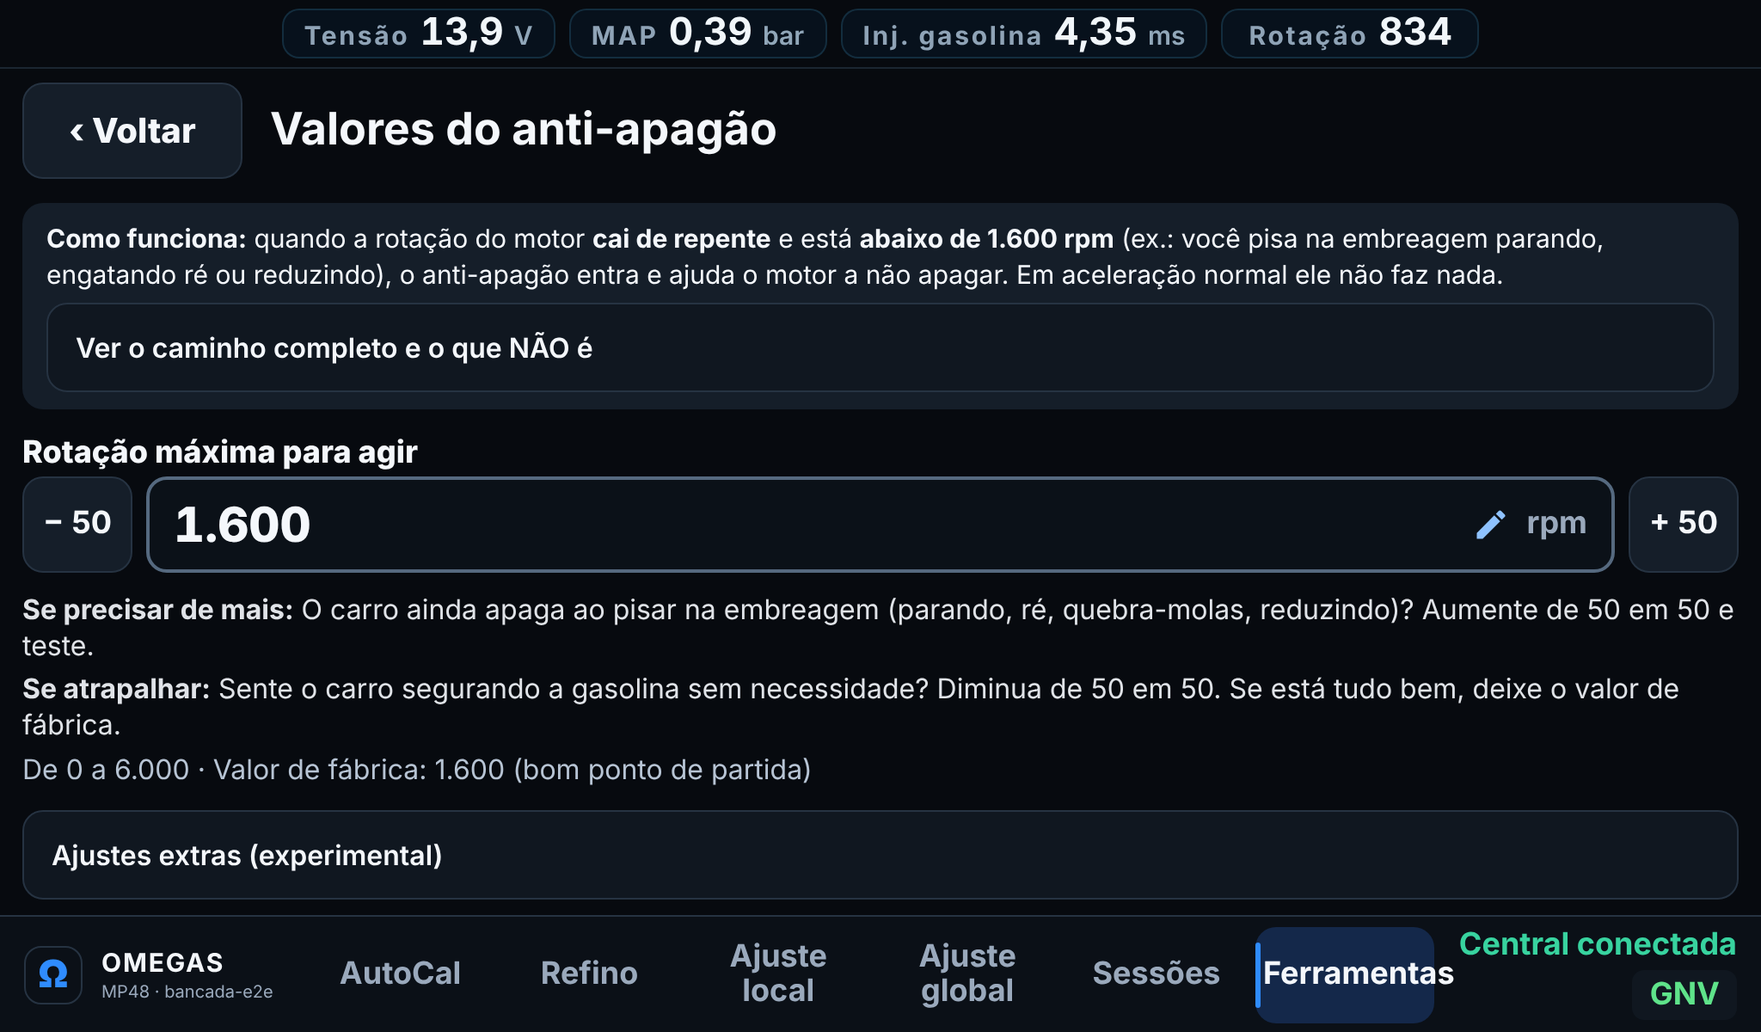
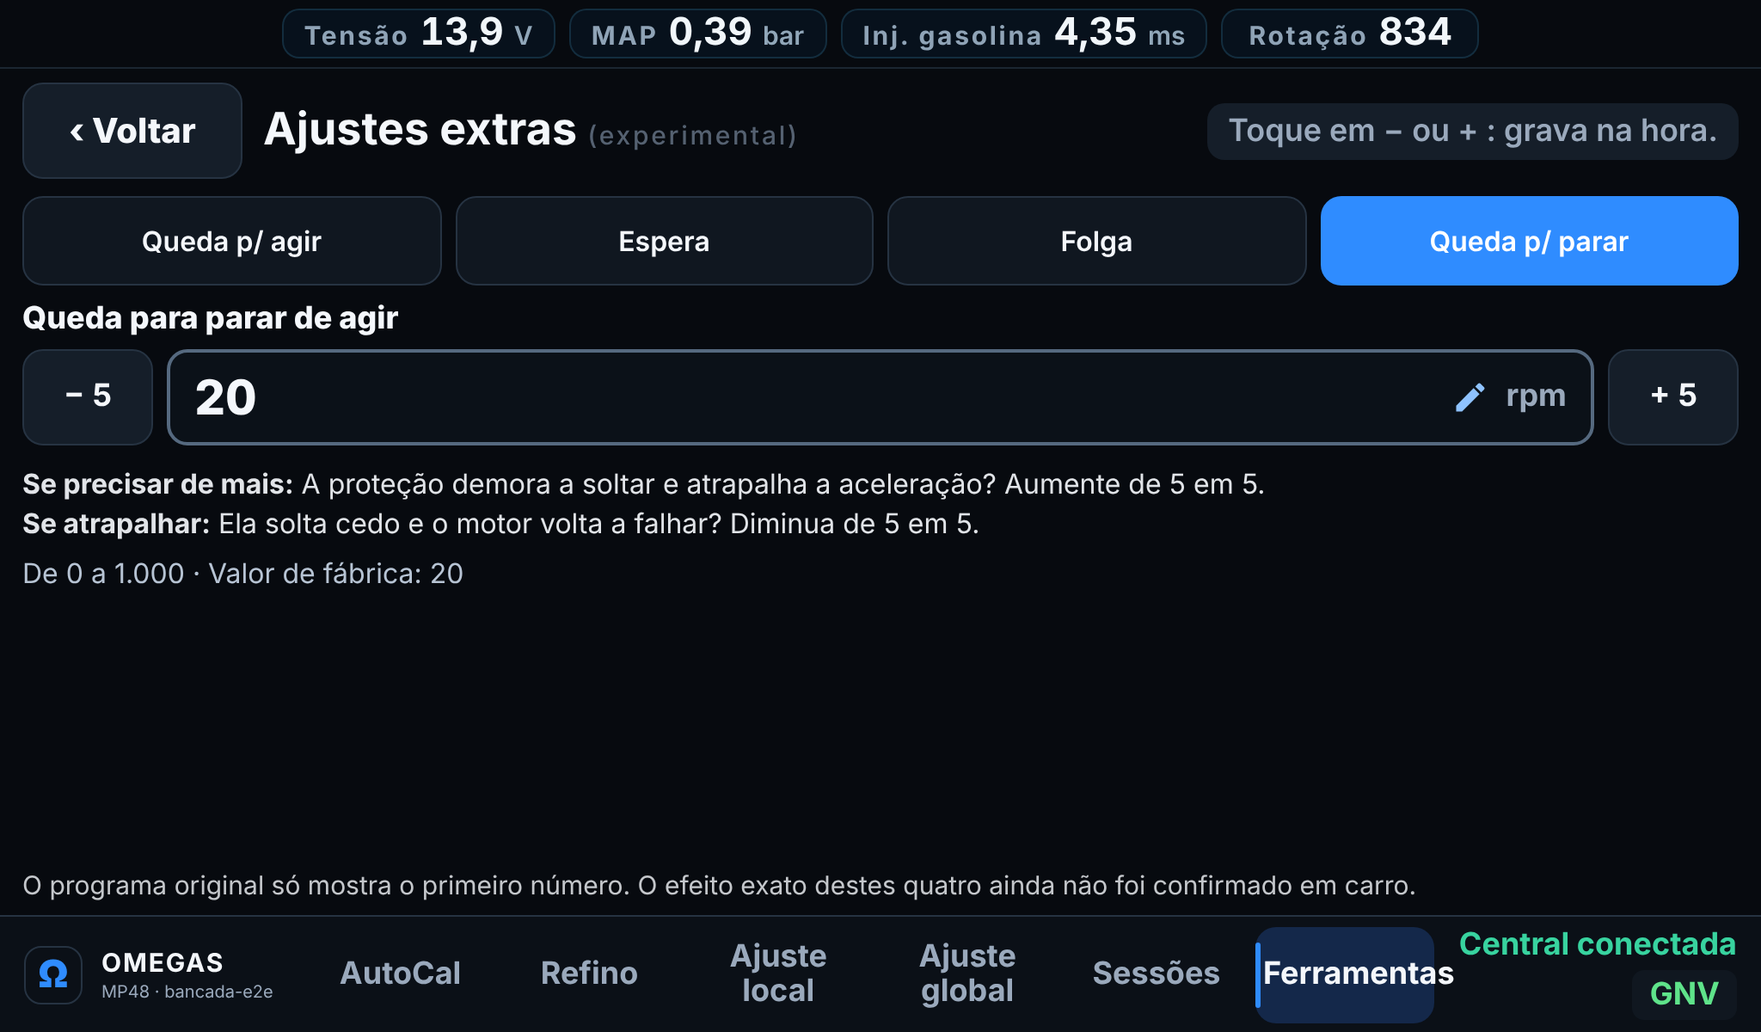
WIP: Valores do anti-apagão redesenhados: tela dividida sem rolagem, cada toque em −/+ grava na hora, status visível, extras por abas
Claude-Session: https://claude.ai/code/session_01JEx3o71ikj852jJzY51Gkf

diff --git a/app/src/main/assets/ui/components/advanced.js b/app/src/main/assets/ui/components/advanced.js
@@ -31,6 +31,8 @@
       this.data = { read: false, params: {} };
       this.drafts = {};          // índice -> texto digitado
       this.signature = '';
+      this.extraIndex = 1;
+      this.saveAgain = false;
       this.layerSignature = '';
       if (!this.host || !this.A || !this.V || !this.M) return;
       const bridge = new Proxy({}, { get: (_, name) => (root.OmegasAutoCal ? root.OmegasAutoCal[name] : undefined) }); // ponte lida na hora do uso
@@ -39,6 +41,8 @@
       this.vals = this.V.createValuesFlow({ bridge, addHook, onChange: () => { this.loadData(); this.render(); } });
       this.host.addEventListener('click', event => this.onClick(event));
       this.host.addEventListener('input', event => this.onInput(event));
+      // Digitou e saiu do campo (ou Enter): grava na hora, como os botões − / +.
+      this.host.addEventListener('change', event => { if (event.target.closest('input[data-adv-field]')) this.autoSave(); });
       this.layer?.addEventListener('click', event => this.onClick(event));
       // Um toque fora da janela de confirmação desarma a prévia (evento, nunca prazo). Toque DENTRO da janela (até no cartão, fora dos
       // botões) não cancela: o 2º toque do toque duplo pode cair no cartão sem estragar a confirmação.
@@ -128,7 +132,10 @@
         const changes = this.V.factoryChanges(current);
         this.flag.cancel();
         if (Object.keys(changes).length) this.vals.ask('factory', changes, this.usb());
-      } else if (t.matches('[data-adv-open]')) { this.view = t.dataset.advOpen; if (this.view === 'valores') this.resetDrafts(); this.setView(); }
+      } else if (t.matches('[data-adv-open-view]')) { this.view = t.dataset.advOpenView; this.setView(); }
+      else if (t.matches('[data-adv-back-valores]')) { this.view = 'valores'; this.setView(); }
+      else if (t.matches('[data-adv-extra]')) { this.extraIndex = Number(t.dataset.advExtra) || 1; }
+      else if (t.matches('[data-adv-open]')) { this.view = t.dataset.advOpen; if (this.view === 'valores') this.resetDrafts(); this.setView(); }
       else if (t.matches('[data-adv-back]')) { this.view = 'home'; this.setView(); }
       this.signature = '';
       this.render();
@@ -156,7 +163,22 @@
       const input = this.host.querySelector(`#advField${idx}`);
       if (input) input.value = this.drafts[idx];
       this.paintFields();
+      this.autoSave();
     }
+
+    /** Grava o que mudou, na hora. Toques durante uma gravação não se perdem: gravam em seguida (por evento, sem relógio). */
+    autoSave() {
+      const phase = this.vals.view().phase;
+      if (phase === 'preparing' || phase === 'writing') { this.saveAgain = true; return; }
+      this.saveAgain = false;
+      const p = this.pendingChanges();
+      if (p.invalid || !Object.keys(p.changes).length || this.reason('values')) return;
+      this.vals.dismiss();
+      this.flag.cancel();
+      this.vals.ask('edit', p.changes, this.usb());
+    }
+
+    isValuesView() { return this.view === 'valores' || this.view === 'extras' || this.view === 'info'; }
 
     resetDrafts() {
       const values = this.V.valuesOf(this.param('ANTI_STALLO'));
@@ -231,6 +253,7 @@
       const state = this.store.get();
       if (state.route !== 'tools') return;
       this.setView();
+      if (this.saveAgain && !['preparing', 'writing'].includes(this.vals.view().phase)) this.autoSave();
       try { this.renderLayer(); }
       catch (error) {
         console.error('[OMEGAS Ferramentas] Janela de confirmação indisponível', error);
@@ -238,10 +261,10 @@
         this.layerSignature = '';
       }
       const active = document.activeElement;
-      if (this.view === 'valores' && active && this.host.contains(active) && active.tagName === 'INPUT') { this.paintFields(); return; }
+      if (this.isValuesView() && active && this.host.contains(active) && active.tagName === 'INPUT') { this.paintFields(); return; }
       const fv = this.flag.view();
       const vv = this.vals.view();
-      const signature = JSON.stringify([this.view, this.data, this.usb(), this.hasBridge(), fv.phase, vv.phase, vv.undo, this.view === 'valores' ? this.drafts : null]);
+      const signature = JSON.stringify([this.view, this.data, this.usb(), this.hasBridge(), fv.phase, vv.phase, vv.message, vv.undo, this.isValuesView() ? [this.drafts, this.extraIndex] : null]);
       if (signature === this.signature && this.host.childElementCount) return;
       this.signature = signature;
       try {
@@ -255,9 +278,11 @@
         }
         const next = this.view === 'home' ? this.renderHome(cards)
           : this.view === 'valores' ? this.renderValues(cards)
+          : this.view === 'extras' ? this.renderExtras(cards)
+          : this.view === 'info' ? this.renderInfo()
           : this.renderReadOnly(cards.find(c => c.id === this.view));
         if (this.host.innerHTML !== next) this.host.innerHTML = next;
-        if (this.view === 'valores') this.paintFields();
+        if (this.isValuesView()) this.paintFields();
         if (usingUnknown) this.signature = ''; // Próximo quadro tenta recuperar sozinho, sem redesenho idêntico.
       } catch (error) {
         console.error('[OMEGAS Ferramentas] Cartões indisponíveis', error);
@@ -306,11 +331,9 @@
       }).join('');
     }
 
-    renderValues(cards) {
-      const values = this.V.valuesOf(this.param('ANTI_STALLO'));
-      const why = this.reason('values');
-      const undo = this.vals.view().undo;
-      const fieldHtml = f => `
+    /** Campo com − / + : cada toque já grava (sem botão "Gravar"). */
+    fieldHtml(f, values) {
+      return `
         <div class="num-field" data-field="${f.index}" data-invalid="false" data-changed="false">
           <label for="advField${f.index}">${escapeHtml(f.label)}</label>
           <div class="num-stepper">
@@ -324,35 +347,82 @@
           </div>
           <p class="num-help" id="advHelp${f.index}">${escapeHtml(f.help)}${f.unit === 'ms' ? ' <span class="num-seconds"></span>' : ''}</p>
           <ul class="num-tips"><li><b>Se precisar de mais:</b> ${escapeHtml(f.tipUp)}</li><li><b>Se atrapalhar:</b> ${escapeHtml(f.tipDown)}</li></ul>
-          <p class="num-meta">${escapeHtml(this.V.range(f))} · Valor de fábrica: ${escapeHtml(this.V.num(f.factory))} (bom ponto de partida)</p>
+          <p class="num-meta">${escapeHtml(this.V.range(f))} · Valor de fábrica: ${escapeHtml(this.V.num(f.factory))}</p>
           <p class="num-warn"></p>
           <p class="num-error" role="alert"></p>
         </div>`;
-      // O original só mostra UM número ("Rotação máxima para agir", 1600 rpm); os outros 4 ficam recolhidos (experimental).
-      const fields = this.V.FIELDS.filter(f => f.index === 0).map(fieldHtml).join('')
-        + `<details class="mais-info extras-experimentais"><summary>Ajustes extras (experimental)</summary><div class="num-grid">${this.V.FIELDS.filter(f => f.index !== 0).map(fieldHtml).join('')}</div></details>`;
-      return `
-        <section class="tool-view values-view" data-card="valores">
-          <header><button type="button" class="secondary tool-back" data-adv-back><span aria-hidden="true">‹</span> Voltar</button><h3>Valores do anti-apagão</h3><p>${escapeHtml(why || 'Use − e + (ou toque no número e digite). Depois toque em Gravar valores: grava na hora e dá para Desfazer.')}</p></header>
-          <section class="como-funciona" aria-label="Como funciona">
-            <p><b>Como funciona:</b> quando a rotação do motor <b>cai de repente</b> e está <b>abaixo de ${escapeHtml(this.V.num(values ? values[0] : 1600))} rpm</b> (ex.: você pisa na embreagem parando, engatando ré ou reduzindo), o anti-apagão entra e ajuda o motor a não apagar. Em aceleração normal ele não faz nada.</p>
-            <details class="mais-info"><summary>Ver o caminho completo e o que NÃO é</summary>
-              <ol>
-                <li>Rotação cai mais rápido que <b>Queda para agir</b> <em>e</em> está abaixo da <b>Rotação máxima</b> → a proteção <b>entra</b>.</li>
-                <li>A central sai do gás conforme a <b>Espera</b> (ms) e ajuda o motor a segurar.</li>
-                <li>Quando a queda fica menor que <b>Queda para parar</b>, a proteção <b>solta</b>. A <b>Folga</b> evita ligar e desligar toda hora.</li>
-              </ol>
-              <p><b>Não é o corte de injeção</b> (soltar o acelerador em desaceleração). O corte tem ajustes próprios no cartão <b>Saída do corte</b>. Mas os dois se encontram: no seu log, depois de cada corte, com o anti-apagão <b>desligado</b> a rotação afundou até 447 rpm (26 vezes abaixo de 600); <b>ligado</b>, nunca passou de 680 rpm.</p>
-            </details>
-          </section>
-          <div class="num-grid">${fields}</div>
-          ${this.vals.view().phase === 'done' ? `<p class="adv-saved" role="status">${escapeHtml(this.vals.view().message)}</p>` : ''}
-${this.vals.view().phase === 'preparing' || this.vals.view().phase === 'writing' ? '<p class="adv-saved" role="status">Gravando…</p>' : ''}
-          <div class="tool-actions">
-            <button type="button" class="primary" data-adv-save disabled>Gravar valores</button>
+    }
+
+    /** Linha de estado da gravação, sempre visível: o dono vê o que está acontecendo. */
+    saveStatus() {
+      const vv = this.vals.view();
+      if (vv.phase === 'preparing' || vv.phase === 'writing') return ['busy', 'Gravando…'];
+      if (vv.phase === 'done') return ['ok', 'Gravado e conferido ✓'];
+      if (vv.phase === 'error') return ['bad', 'Não gravou. ' + (vv.message || '')];
+      return ['idle', 'Toque em − ou + : grava na hora.'];
+    }
+
+    footerHtml(cards, extra) {
+      const values = this.V.valuesOf(this.param('ANTI_STALLO'));
+      const why = this.reason('values');
+      const undo = this.vals.view().undo;
+      return `<div class="tool-actions vv-actions">
             <button type="button" class="secondary" data-adv-factory ${why || !values || values.every((v, i) => v === this.V.FACTORY[i]) ? 'disabled' : ''}>Restaurar fábrica</button>
             ${undo.available ? '<button type="button" class="secondary" data-adv-undo-values>Desfazer</button>' : ''}
-            <details class="tool-tech"><summary>Ver detalhes técnicos</summary><ul>${(cards.find(c => c.id === 'valores')?.tech || []).map(t => `<li>${escapeHtml(t)}</li>`).join('')}<li>Faixa e valor de fábrica: tela original do programa do fabricante; a ordem dos campos é inferida.</li></ul></details>
+            ${extra}
+          </div>`;
+    }
+
+    /** Tela principal: o número que importa, ao lado do "como funciona". Sem rolagem. */
+    renderValues(cards) {
+      const values = this.V.valuesOf(this.param('ANTI_STALLO'));
+      const why = this.reason('values');
+      const f0 = this.V.FIELDS[0];
+      const [level, statusText] = this.saveStatus();
+      return `
+        <section class="tool-view values-view" data-card="valores">
+          <header><button type="button" class="secondary tool-back" data-adv-back><span aria-hidden="true">‹</span> Voltar</button><h3>Valores do anti-apagão</h3><p class="vv-status" data-level="${level}" role="status">${escapeHtml(why || statusText)}</p></header>
+          <div class="vv-body">
+            <div class="vv-main">${this.fieldHtml(f0, values)}</div>
+            <aside class="vv-info" aria-label="Como funciona">
+              <p class="vv-how"><b>Como funciona:</b> quando a rotação <b>cai de repente</b> abaixo de <b>${escapeHtml(this.V.num(values ? values[0] : f0.factory))} rpm</b> <span class="vv-long">(ex.: pisou na embreagem parando ou engatando ré), o anti-apagão entra e ajuda o motor a não apagar. Em aceleração normal ele não faz nada.</span><span class="vv-short">(ex.: pisou na embreagem), ele entra e ajuda o motor a não apagar.</span></p>
+              <button type="button" class="secondary" data-adv-open-view="info">Ver explicação completa</button>
+            </aside>
+          </div>
+          ${this.footerHtml(cards, '<button type="button" class="secondary" data-adv-open-view="extras">Ajustes extras (experimental) ›</button>')}
+        </section>`;
+    }
+
+    /** Ajustes extras: um por vez (abas), cada um com a sua explicação completa. Sem rolagem. */
+    renderExtras(cards) {
+      const values = this.V.valuesOf(this.param('ANTI_STALLO'));
+      const [level, statusText] = this.saveStatus();
+      const extras = this.V.FIELDS.filter(f => f.index !== 0);
+      const cur = extras.find(f => f.index === this.extraIndex) || extras[0];
+      const tabs = extras.map(f => `<button type="button" class="vv-tab" data-adv-extra="${f.index}" aria-pressed="${f.index === cur.index}">${escapeHtml(f.tab)}</button>`).join('');
+      return `
+        <section class="tool-view values-view" data-card="valores-extras">
+          <header><button type="button" class="secondary tool-back" data-adv-back-valores><span aria-hidden="true">‹</span> Voltar</button><h3>Ajustes extras <small>(experimental)</small></h3><p class="vv-status" data-level="${level}" role="status">${escapeHtml(statusText)}</p></header>
+          <nav class="vv-tabs" aria-label="Qual ajuste">${tabs}</nav>
+          <div class="vv-main vv-single">${this.fieldHtml(cur, values)}</div>
+          <p class="vv-note">O programa original só mostra o primeiro número. O efeito exato destes quatro ainda não foi confirmado em carro.</p>
+        </section>`;
+    }
+
+    /** Explicação completa (uma tela só de leitura, sem rolagem). */
+    renderInfo() {
+      const values = this.V.valuesOf(this.param('ANTI_STALLO'));
+      const lim = this.V.num(values ? values[0] : 1600);
+      return `
+        <section class="tool-view values-view" data-card="valores-info">
+          <header><button type="button" class="secondary tool-back" data-adv-back-valores><span aria-hidden="true">‹</span> Voltar</button><h3>Como o anti-apagão funciona</h3></header>
+          <div class="vv-info-full">
+            <ol>
+              <li>A rotação cai mais rápido que <b>Queda para agir</b> <em>e</em> está abaixo de <b>${escapeHtml(lim)} rpm</b> → a proteção <b>entra</b>.</li>
+              <li>A central sai do gás conforme a <b>Espera</b> (ms) e ajuda o motor a segurar.</li>
+              <li>Quando a queda fica menor que <b>Queda para parar</b>, a proteção <b>solta</b>. A <b>Folga</b> evita ligar e desligar toda hora.</li>
+            </ol>
+            <p><b>Não é o corte de injeção</b> (soltar o acelerador em desaceleração): o corte tem ajustes próprios no cartão <b>Saída do corte</b>. Os dois se encontram: no seu log, depois de cada corte, com o anti-apagão <b>desligado</b> a rotação afundou até 447 rpm (26 vezes abaixo de 600); <b>ligado</b>, nunca passou de 680 rpm.</p>
           </div>
         </section>`;
     }

diff --git a/app/src/main/assets/ui/styles-ux-leigo.css b/app/src/main/assets/ui/styles-ux-leigo.css
@@ -270,28 +270,12 @@
 .num-warn { margin: 4px 0 0; font-size: 14px; color: #d99a1e; }
 .num-warn:empty { display: none; }
 
-/* Anti-apagão: o número principal fica numa coluna larga; extras (experimentais) empilhados, com rolagem só dentro da tela de valores. */
-.values-view { overflow-y: auto; }
-.values-view > .num-grid { grid-template-columns: minmax(0, 1fr); grid-auto-rows: auto; }
-.extras-experimentais { margin-top: 8px; }
-.extras-experimentais .num-grid { display: grid; grid-template-columns: minmax(0, 1fr); grid-auto-rows: auto; gap: 14px; margin-top: 10px; }
-.num-stepper .num-box { flex: 1 1 0; min-width: 0; }
-.step-btn { flex: 0 0 auto; min-width: 64px; padding: 0 10px; }
-.num-tips { font-size: 13px; }
-.values-view > * { flex-shrink: 0; }
-.extras-experimentais { margin-bottom: 12px; } .values-view .tool-actions { margin-top: 12px; }
 
-.como-funciona { margin: 6px 0 8px; padding: 10px 14px; border-radius: 12px; background: var(--surface-2); font-size: 14px; line-height: 1.4; }
-.como-funciona p { margin: 0 0 6px; }
-.como-funciona ol { margin: 6px 0; padding-left: 20px; }
-.values-view > .num-grid { flex: 0 0 auto; min-height: auto; }
 
-/* Blocos que abrem NO LUGAR (não cobrem a tela como o .tool-tech dos detalhes técnicos). */
-.mais-info > summary { display: flex; align-items: center; min-height: 52px; padding: 0 16px; border: 1px solid var(--line); border-radius: 12px; background: var(--surface); color: var(--text); font-size: 16px; font-weight: 600; cursor: pointer; }
-.mais-info[open] > summary { margin-bottom: 8px; }
-.mais-info ol, .mais-info p { font-size: 14px; line-height: 1.4; }
+
+
 .num-field .num-meta, .num-field .num-tips, .num-field .num-warn { font-size: 16px; }
-.como-funciona, .como-funciona p, .mais-info ol, .mais-info p { font-size: 15px; }
+
 
 /* Telas pequenas (800x480): o cartão do anti-apagão mostra só o estado, numa linha; a ação continua no aria-label. */
 @media (max-width: 860px) {
@@ -299,3 +283,42 @@
   .tool-switch .sw-caption b { white-space: nowrap; font-size: 18px; }
   .tool-switch { gap: 8px; padding: 0 10px; }
 }
+
+/* Valores do anti-apagão: tela dividida (número à esquerda, explicação à direita), SEM rolagem; extras uma aba por vez. */
+.values-view { display: flex; flex-direction: column; gap: 10px; height: 100%; min-height: 0; overflow: hidden; }
+.values-view > header { display: flex; align-items: center; gap: 12px; flex: 0 0 auto; }
+.values-view > header h3 { margin: 0; font-size: 22px; }
+.values-view > header h3 small { font-size: 15px; font-weight: 500; opacity: .75; }
+.vv-status { margin: 0 0 0 auto; padding: 6px 12px; border-radius: 10px; font-size: 16px; font-weight: 600; background: var(--surface-2); color: var(--muted, #b7c4d4); text-align: right; }
+.vv-status[data-level="ok"] { color: #3ddc97; }
+.vv-status[data-level="busy"] { color: #8ec2ff; }
+.vv-status[data-level="bad"] { color: #ff8a8a; }
+.vv-body { flex: 1 1 auto; min-height: 0; display: grid; grid-template-columns: minmax(0, 3fr) minmax(0, 2fr); gap: 14px; }
+.vv-main { min-width: 0; min-height: 0; display: flex; flex-direction: column; gap: 6px; }
+.vv-main .num-field { display: flex; flex-direction: column; gap: 6px; }
+.vv-info { min-width: 0; min-height: 0; display: flex; flex-direction: column; gap: 10px; padding: 12px 14px; border-radius: 12px; background: var(--surface-2); font-size: 16px; line-height: 1.4; }
+.vv-info p { margin: 0; }
+.vv-short { display: none; }
+.vv-actions { flex: 0 0 auto; display: flex; flex-wrap: wrap; gap: 10px; }
+.vv-tabs { flex: 0 0 auto; display: flex; gap: 8px; }
+.vv-tab { flex: 1 1 0; min-height: 52px; padding: 0 8px; border-radius: 12px; border: 1px solid var(--line); background: var(--surface); color: var(--text); font-size: 16px; font-weight: 600; }
+.vv-tab[aria-pressed="true"] { background: var(--accent, #2f8cff); color: #fff; border-color: transparent; }
+.vv-single { flex: 1 1 auto; }
+.vv-note { margin: 0; flex: 0 0 auto; font-size: 15px; opacity: .8; }
+.vv-info-full { flex: 1 1 auto; min-height: 0; font-size: 17px; line-height: 1.45; }
+.vv-info-full ol { margin: 0 0 10px; padding-left: 22px; }
+.vv-info-full p { margin: 0; }
+.num-tips { margin: 4px 0 0; padding: 0; list-style: none; line-height: 1.35; }
+.num-tips li { margin: 2px 0; }
+@media (max-width: 860px) {
+  .values-view { gap: 6px; }
+  .vv-body { grid-template-columns: minmax(0, 11fr) minmax(0, 9fr); }
+  .vv-long { display: none; }
+  .vv-info { padding: 8px 12px; font-size: 15px; }
+  .vv-info .secondary { min-height: 52px; }
+  .values-view > header h3 { font-size: 19px; }
+  .vv-status { font-size: 15px; padding: 4px 10px; }
+  .vv-short { display: inline; }
+  .vv-main .num-help { display: none; }
+}
+.values-view > header .vv-status { display: block; max-width: 46%; }

diff --git a/app/src/main/assets/ui/core/anti-apagao-valores.js b/app/src/main/assets/ui/core/anti-apagao-valores.js
@@ -16,21 +16,21 @@
   const FIELDS = [
     { index: 0, label: 'Rotação máxima para agir', unit: 'rpm', min: 0, max: 6000, factory: 1600, step: 50,
       help: 'O anti-apagão só entra com o motor ABAIXO desta rotação (parado, marcha lenta, manobra). Acima dela, em aceleração normal, ele não interfere.',
-      tipUp: 'O carro ainda apaga ao pisar na embreagem (parando, ré, quebra-molas, reduzindo)? Aumente de 50 em 50 e teste.',
-      tipDown: 'Sente o carro segurando a gasolina sem necessidade? Diminua de 50 em 50. Se está tudo bem, deixe o valor de fábrica.' },
-    { index: 1, label: 'Queda de rotação para agir', unit: 'rpm', min: 0, max: 1000, factory: 100, step: 5,
+      tipUp: 'Ainda apaga ao pisar na embreagem? Aumente de 50 em 50 e teste.',
+      tipDown: 'Segura a gasolina sem precisar? Diminua de 50 em 50.' },
+    { index: 1, tab: 'Queda p/ agir', label: 'Queda de rotação para agir', unit: 'rpm', min: 0, max: 1000, factory: 100, step: 5,
       help: 'Mede a VELOCIDADE da queda: quantas rpm o motor perde a cada duas voltas dele. Se a rotação cair mais rápido que isso (embreagem, parada, depois de um corte), a proteção entra. Queda lenta não ativa.',
       tipUp: 'Está entrando à toa, em quedas pequenas? Aumente de 5 em 5 (fica menos sensível).',
       tipDown: 'Entra tarde e o motor já apagou? Diminua de 5 em 5 (fica mais sensível).' },
-    { index: 2, label: 'Espera para sair do gás', unit: 'ms', min: 0, max: 10000, factory: 1500, step: 100,
+    { index: 2, tab: 'Espera', label: 'Espera para sair do gás', unit: 'ms', min: 0, max: 10000, factory: 1500, step: 100,
       help: 'Tempo de espera para a central sair do modo gás quando a proteção age (original: "Delay to exit gas mode"). 1.000 ms = 1 segundo.',
       tipUp: 'Saindo do gás cedo demais? Aumente de 100 em 100.',
       tipDown: 'Demora para trocar e o motor falha? Diminua de 100 em 100.' },
-    { index: 3, label: 'Folga para não ficar trocando', unit: 'rpm', min: 0, max: 1000, factory: 2, step: 5,
+    { index: 3, tab: 'Folga', label: 'Folga para não ficar trocando', unit: 'rpm', min: 0, max: 1000, factory: 2, step: 5,
       help: 'Margem, medida na mesma escala da queda, para a proteção não ligar e desligar por oscilação pequena perto do limite.',
       tipUp: 'A proteção liga e desliga toda hora? Aumente de 5 em 5.',
       tipDown: 'Demora para voltar ao normal? Diminua de 5 em 5.' },
-    { index: 4, label: 'Queda para parar de agir', unit: 'rpm', min: 0, max: 1000, factory: 20, step: 5,
+    { index: 4, tab: 'Queda p/ parar', label: 'Queda para parar de agir', unit: 'rpm', min: 0, max: 1000, factory: 20, step: 5,
       help: 'Quando a queda a cada duas voltas ficar menor que este valor, o motor já se firmou e a proteção para de agir.',
       tipUp: 'A proteção demora a soltar e atrapalha a aceleração? Aumente de 5 em 5.',
       tipDown: 'Ela solta cedo e o motor volta a falhar? Diminua de 5 em 5.' },
